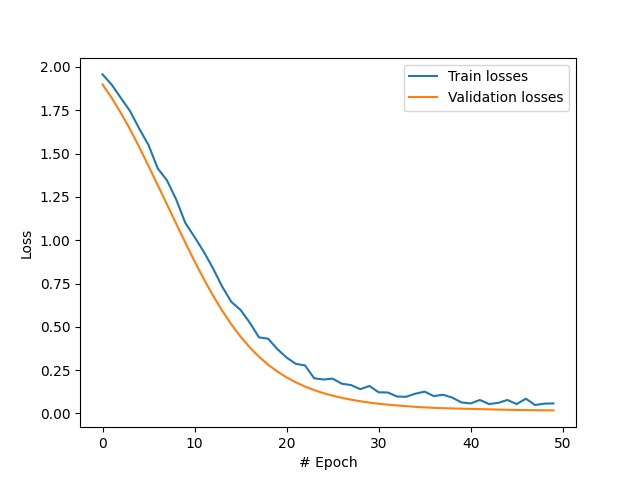
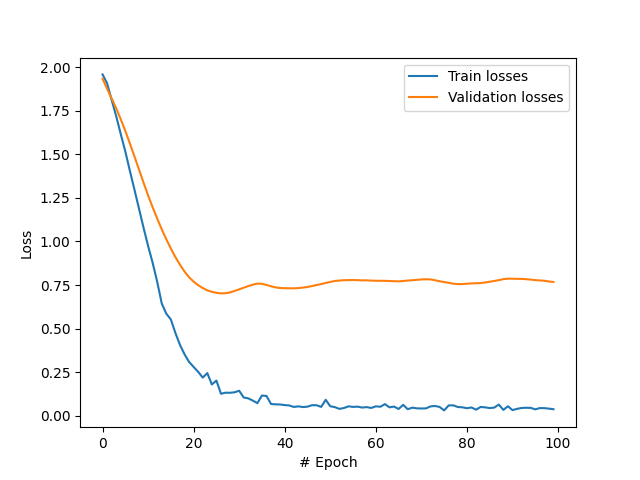
cuda config

diff --git a/gcnn.py b/gcnn.py
@@ -105,21 +105,19 @@ def get_acc_and_loss(data, model, A, type='train', device=None):
 
     correct = 0
     out = model(data.x, A)
-    loss = F.cross_entropy(out[data.train_mask], data.y[data.train_mask]).item()
     pred = out.max(dim=1)[1]
 
     if type == 'train':
-        train_mask = data.train_mask.to(device)
-        correct += pred[train_mask].eq(data.y[train_mask]).sum().item()
-        acc = correct / (len(data.y[data.train_mask]))
+        mask = data.train_mask.to(device)
+
     elif type == 'val':
-        val_mask = data.val_mask.to(device)
-        correct += pred[val_mask].eq(data.y[val_mask]).sum().item()
-        acc = correct / (len(data.y[data.val_mask]))
+        mask = data.val_mask.to(device)
     else:
-        test_mask = data.test_mask.to(device)
-        correct += pred[test_mask].eq(data.y[test_mask]).sum().item()
-        acc = correct / (len(data.y[data.test_mask]))
+        mask = data.test_mask.to(device)
+
+    loss = F.cross_entropy(out[mask], data.y[mask]).item()
+    correct += pred[mask].eq(data.y[mask]).sum().item()
+    acc = correct / (len(data.y[mask]))
 
     return acc, loss
 
@@ -201,7 +199,7 @@ if __name__ == '__main__':
     if device == 'cuda':
         model.cuda()
 
-    train(model, optimizer, data, A, n_epochs=50, plot=True, device=device)
+    train(model, optimizer, data, A, n_epochs=100, plot=True, device=device)
 
-    test_acc, _ = get_acc_and_loss(data, model, A, type='test')
+    test_acc, _ = get_acc_and_loss(data, model, A, type='test', device=device)
     print(f'---- Accuracy on test set: {test_acc}')
